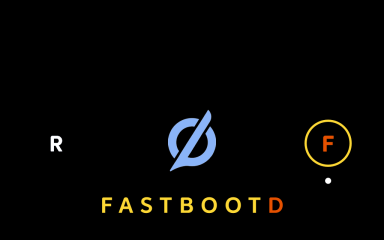
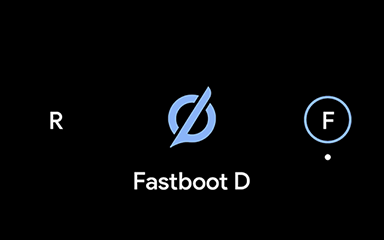
recovery: Improve UI

diff --git a/recovery.cpp b/recovery.cpp
@@ -188,7 +188,7 @@ static bool ask_to_wipe_data(Device* device) {
 
 static InstallResult apply_update_menu(Device* device, Device::BuiltinAction* reboot_action){
   RecoveryUI* ui = device->GetUI();
-  std::vector<std::string> headers{ "Apply update" };
+  std::vector<std::string> headers{ "Install update" };
   std::vector<std::string> items;
 
   const int item_sideload = 0;
@@ -198,7 +198,7 @@ static InstallResult apply_update_menu(Device* device, Device::BuiltinAction* re
 
   for (;;) {
     items.clear();
-    items.push_back("Apply from ADB");
+    items.push_back("ADB Sideload");
     VolumeManager::Instance()->getVolumeInfo(volumes);
     for (auto vol = volumes.begin(); vol != volumes.end(); /* empty */) {
       if (!vol->mMountable) {
@@ -389,7 +389,7 @@ static bool AskToReboot(Device* device, Device::BuiltinAction chosen_action) {
   switch (chosen_action) {
     case Device::REBOOT:
       header_text = "reboot";
-      item_text = " Reboot system now";
+      item_text = " Reboot to system";
       break;
     case Device::SHUTDOWN:
       header_text = "power off";
@@ -801,12 +801,11 @@ Device::BuiltinAction start_recovery(Device* device, const std::vector<std::stri
   // Extract the YYYYMMDD / YYYYMMDD_HHMMSS timestamp from the full version string.
   // Assume the first instance of "-[0-9]{8}-", or "-[0-9]{8}_[0-9]{6}-" in case
   // LINEAGE_VERSION_APPEND_TIME_OF_DAY is set to true has the desired date.
-  std::string model = android::base::GetProperty("ro.product.system.model", "");
   std::string ver = android::base::GetProperty("ro.havoc.version", "");
   std::string release = android::base::GetProperty("ro.havoc.releasetype", "");
 
   std::vector<std::string> title_lines = {
-    "" + model + " (Havoc-OS v" + ver + " " + release + ")",
+    "Havoc-OS v" + ver + " " + release,
   };
   if (android::base::GetBoolProperty("ro.build.ab_update", false)) {
     std::string slot = android::base::GetProperty("ro.boot.slot_suffix", "");

diff --git a/recovery_ui/screen_ui.cpp b/recovery_ui/screen_ui.cpp
@@ -562,35 +562,23 @@ void ScreenRecoveryUI::draw_foreground_locked() {
 void ScreenRecoveryUI::SetColor(UIElement e) const {
   switch (e) {
     case UIElement::INFO:
-      if (fastbootd_logo_enabled_)
-        gr_color(0xfd, 0xd8, 0x35, 255);
-      else
-        gr_color(0x8a, 0xb4, 0xf8, 255);
+      gr_color(0x8a, 0xb4, 0xf8, 255);
       break;
     case UIElement::HEADER:
-      if (fastbootd_logo_enabled_)
-        gr_color(0xfd, 0xd8,0x35, 255);
-      else
-        gr_color(0x8a, 0xb4, 0xf8, 255);
+      gr_color(0x8a, 0xb4, 0xf8, 255);
       break;
     case UIElement::MENU:
       gr_color(0xd8, 0xd8, 0xd8, 255);
       break;
     case UIElement::MENU_SEL_BG:
     case UIElement::SCROLLBAR:
-      if (fastbootd_logo_enabled_)
-        gr_color(0xe6, 0x51, 0x00, 255);
-      else
-        gr_color(0x8a, 0xb4, 0xf8, 255);
+      gr_color(0x8a, 0xb4, 0xf8, 255);
       break;
     case UIElement::MENU_SEL_BG_ACTIVE:
       gr_color(0, 156, 100, 255);
       break;
     case UIElement::MENU_SEL_FG:
-      if (fastbootd_logo_enabled_)
-        gr_color(0, 0, 0, 255);
-      else
-        gr_color(0xd8, 0xd8, 0xd8, 255);
+      gr_color(0, 0, 0, 255);
       break;
     case UIElement::LOG:
       gr_color(196, 196, 196, 255);

diff --git a/recovery_ui/device.cpp b/recovery_ui/device.cpp
@@ -31,13 +31,13 @@ typedef std::pair<std::string, Device::BuiltinAction> menu_action_t;
 
 static std::vector<std::string> g_main_header{};
 static std::vector<menu_action_t> g_main_actions{
-  { "Reboot system now", Device::REBOOT },
-  { "Apply update", Device::APPLY_UPDATE },
+  { "Reboot to system", Device::REBOOT },
+  { "Install update", Device::APPLY_UPDATE },
   { "Factory reset", Device::MENU_WIPE },
   { "Advanced", Device::MENU_ADVANCED },
 };
 
-static std::vector<std::string> g_advanced_header{ "Advanced options" };
+static std::vector<std::string> g_advanced_header{ "Advanced" };
 static std::vector<menu_action_t> g_advanced_actions{
   { "Enter fastboot", Device::ENTER_FASTBOOT },
   { "Reboot to bootloader", Device::REBOOT_BOOTLOADER },

diff --git a/fastboot/fastboot.cpp b/fastboot/fastboot.cpp
@@ -30,7 +30,7 @@
 #include "recovery_ui/ui.h"
 
 static const std::vector<std::pair<std::string, Device::BuiltinAction>> kFastbootMenuActions{
-  { "Reboot system now", Device::REBOOT_FROM_FASTBOOT },
+  { "Reboot to system", Device::REBOOT_FROM_FASTBOOT },
   { "Enter recovery", Device::ENTER_RECOVERY },
   { "Reboot to bootloader", Device::REBOOT_BOOTLOADER },
   { "Power off", Device::SHUTDOWN_FROM_FASTBOOT },
